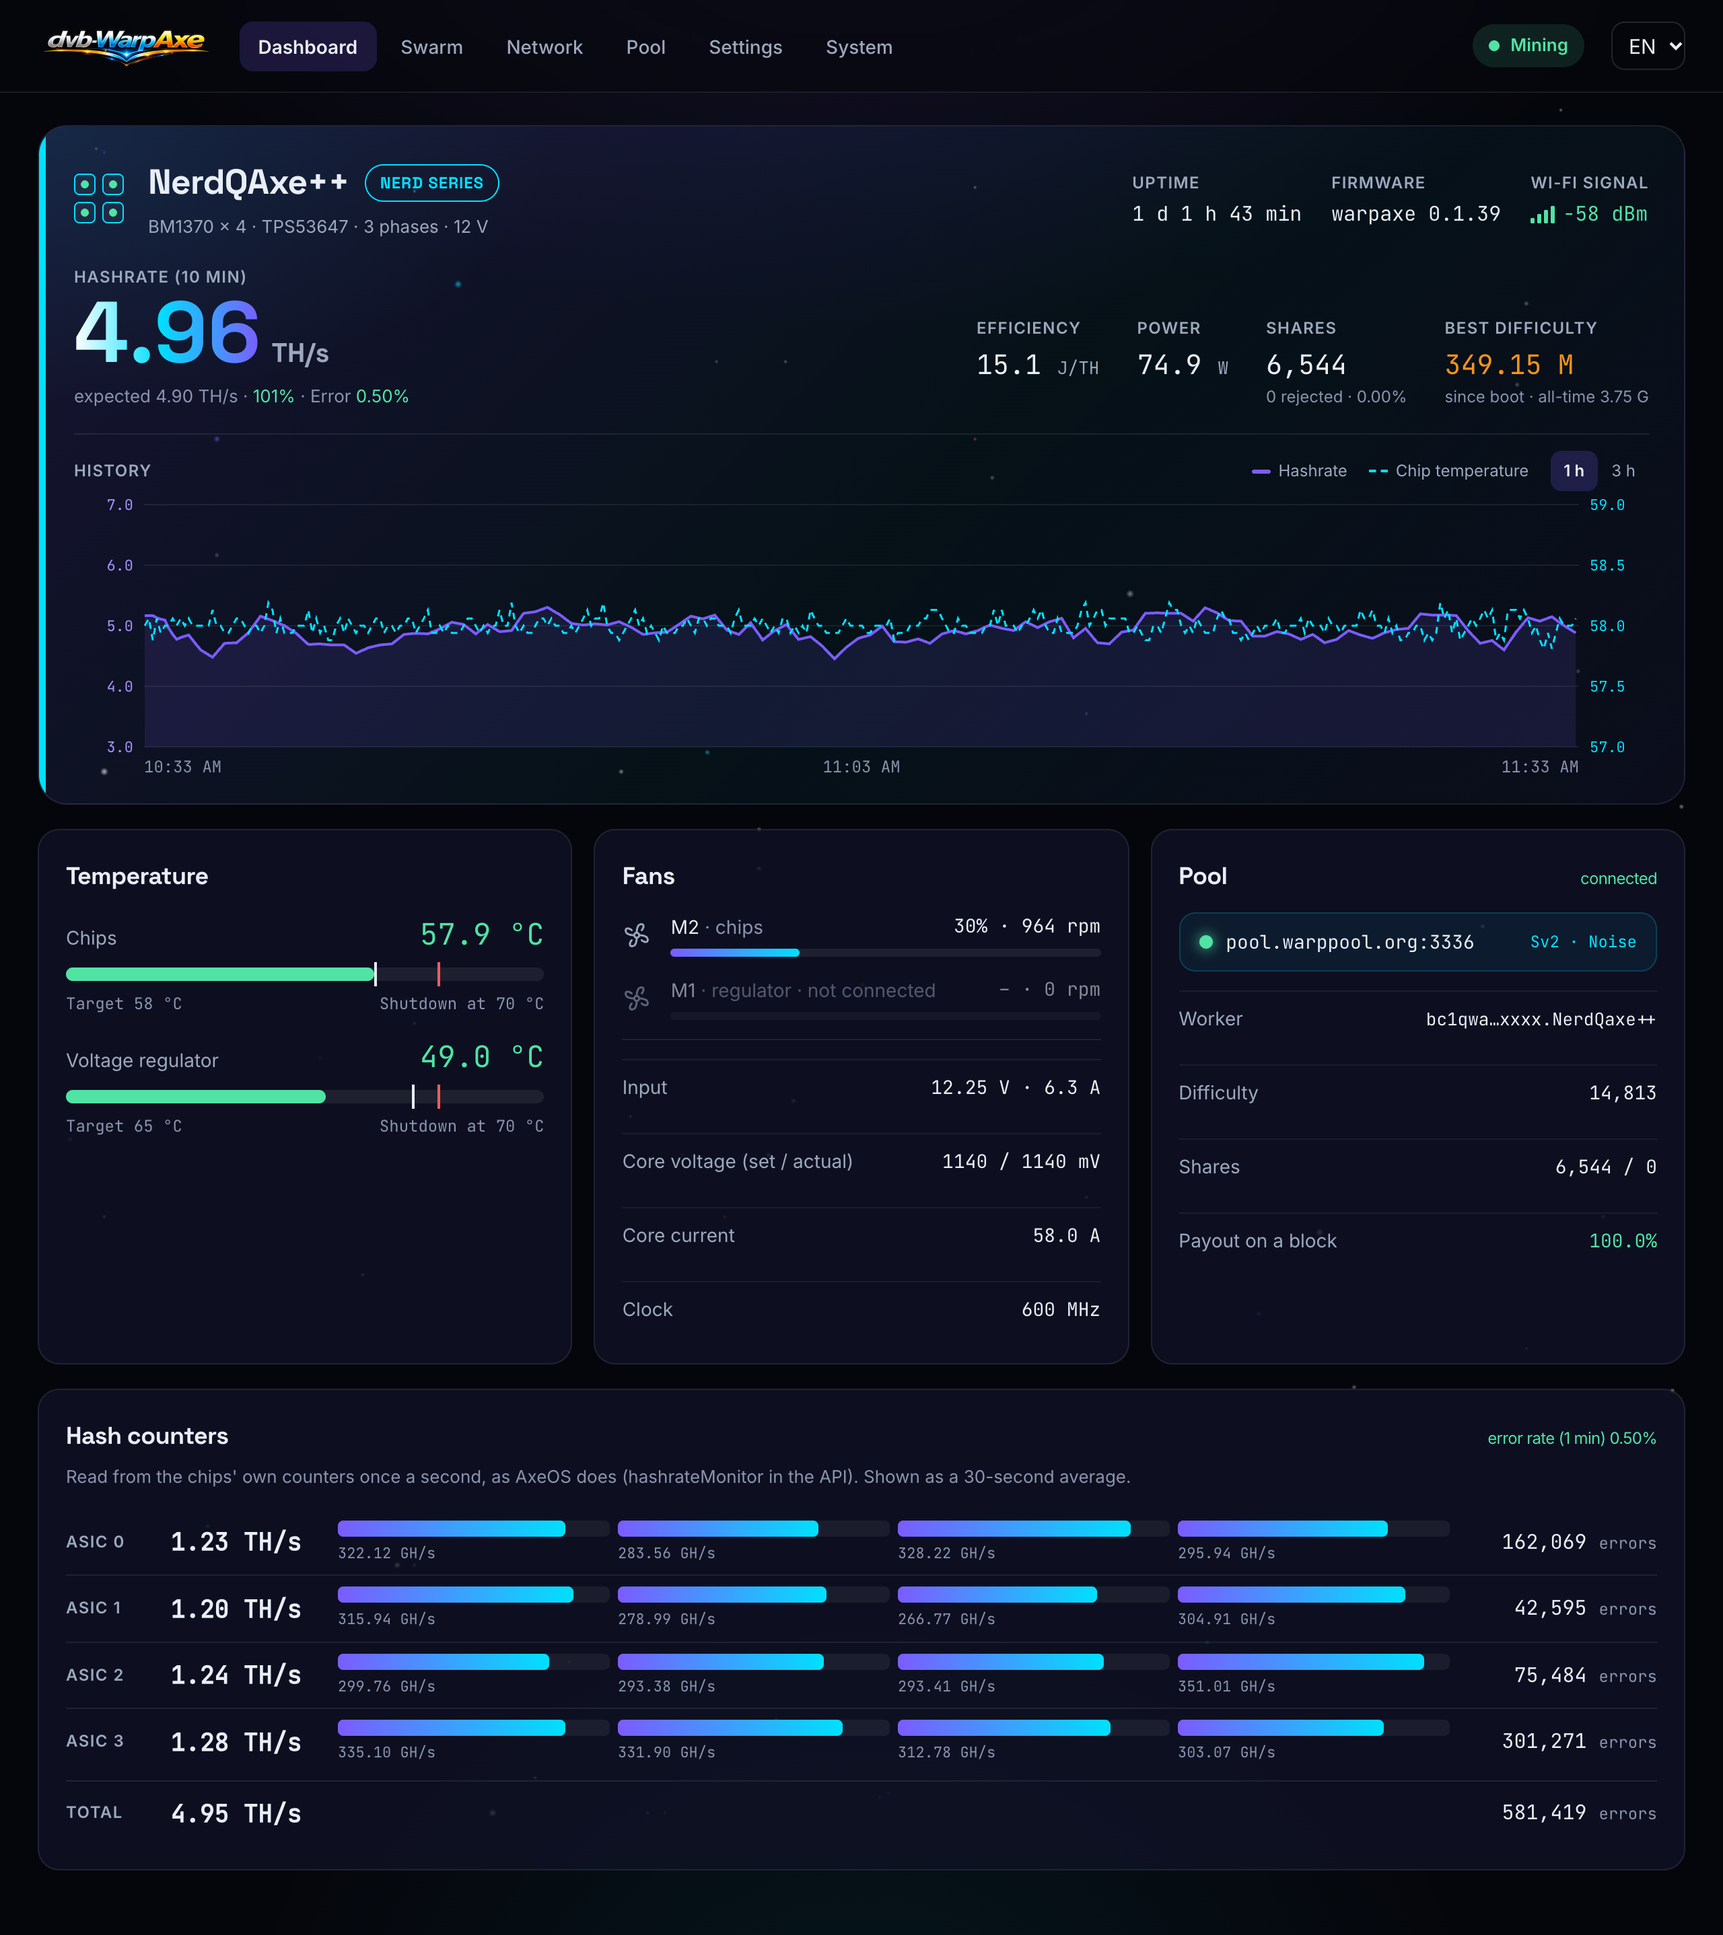
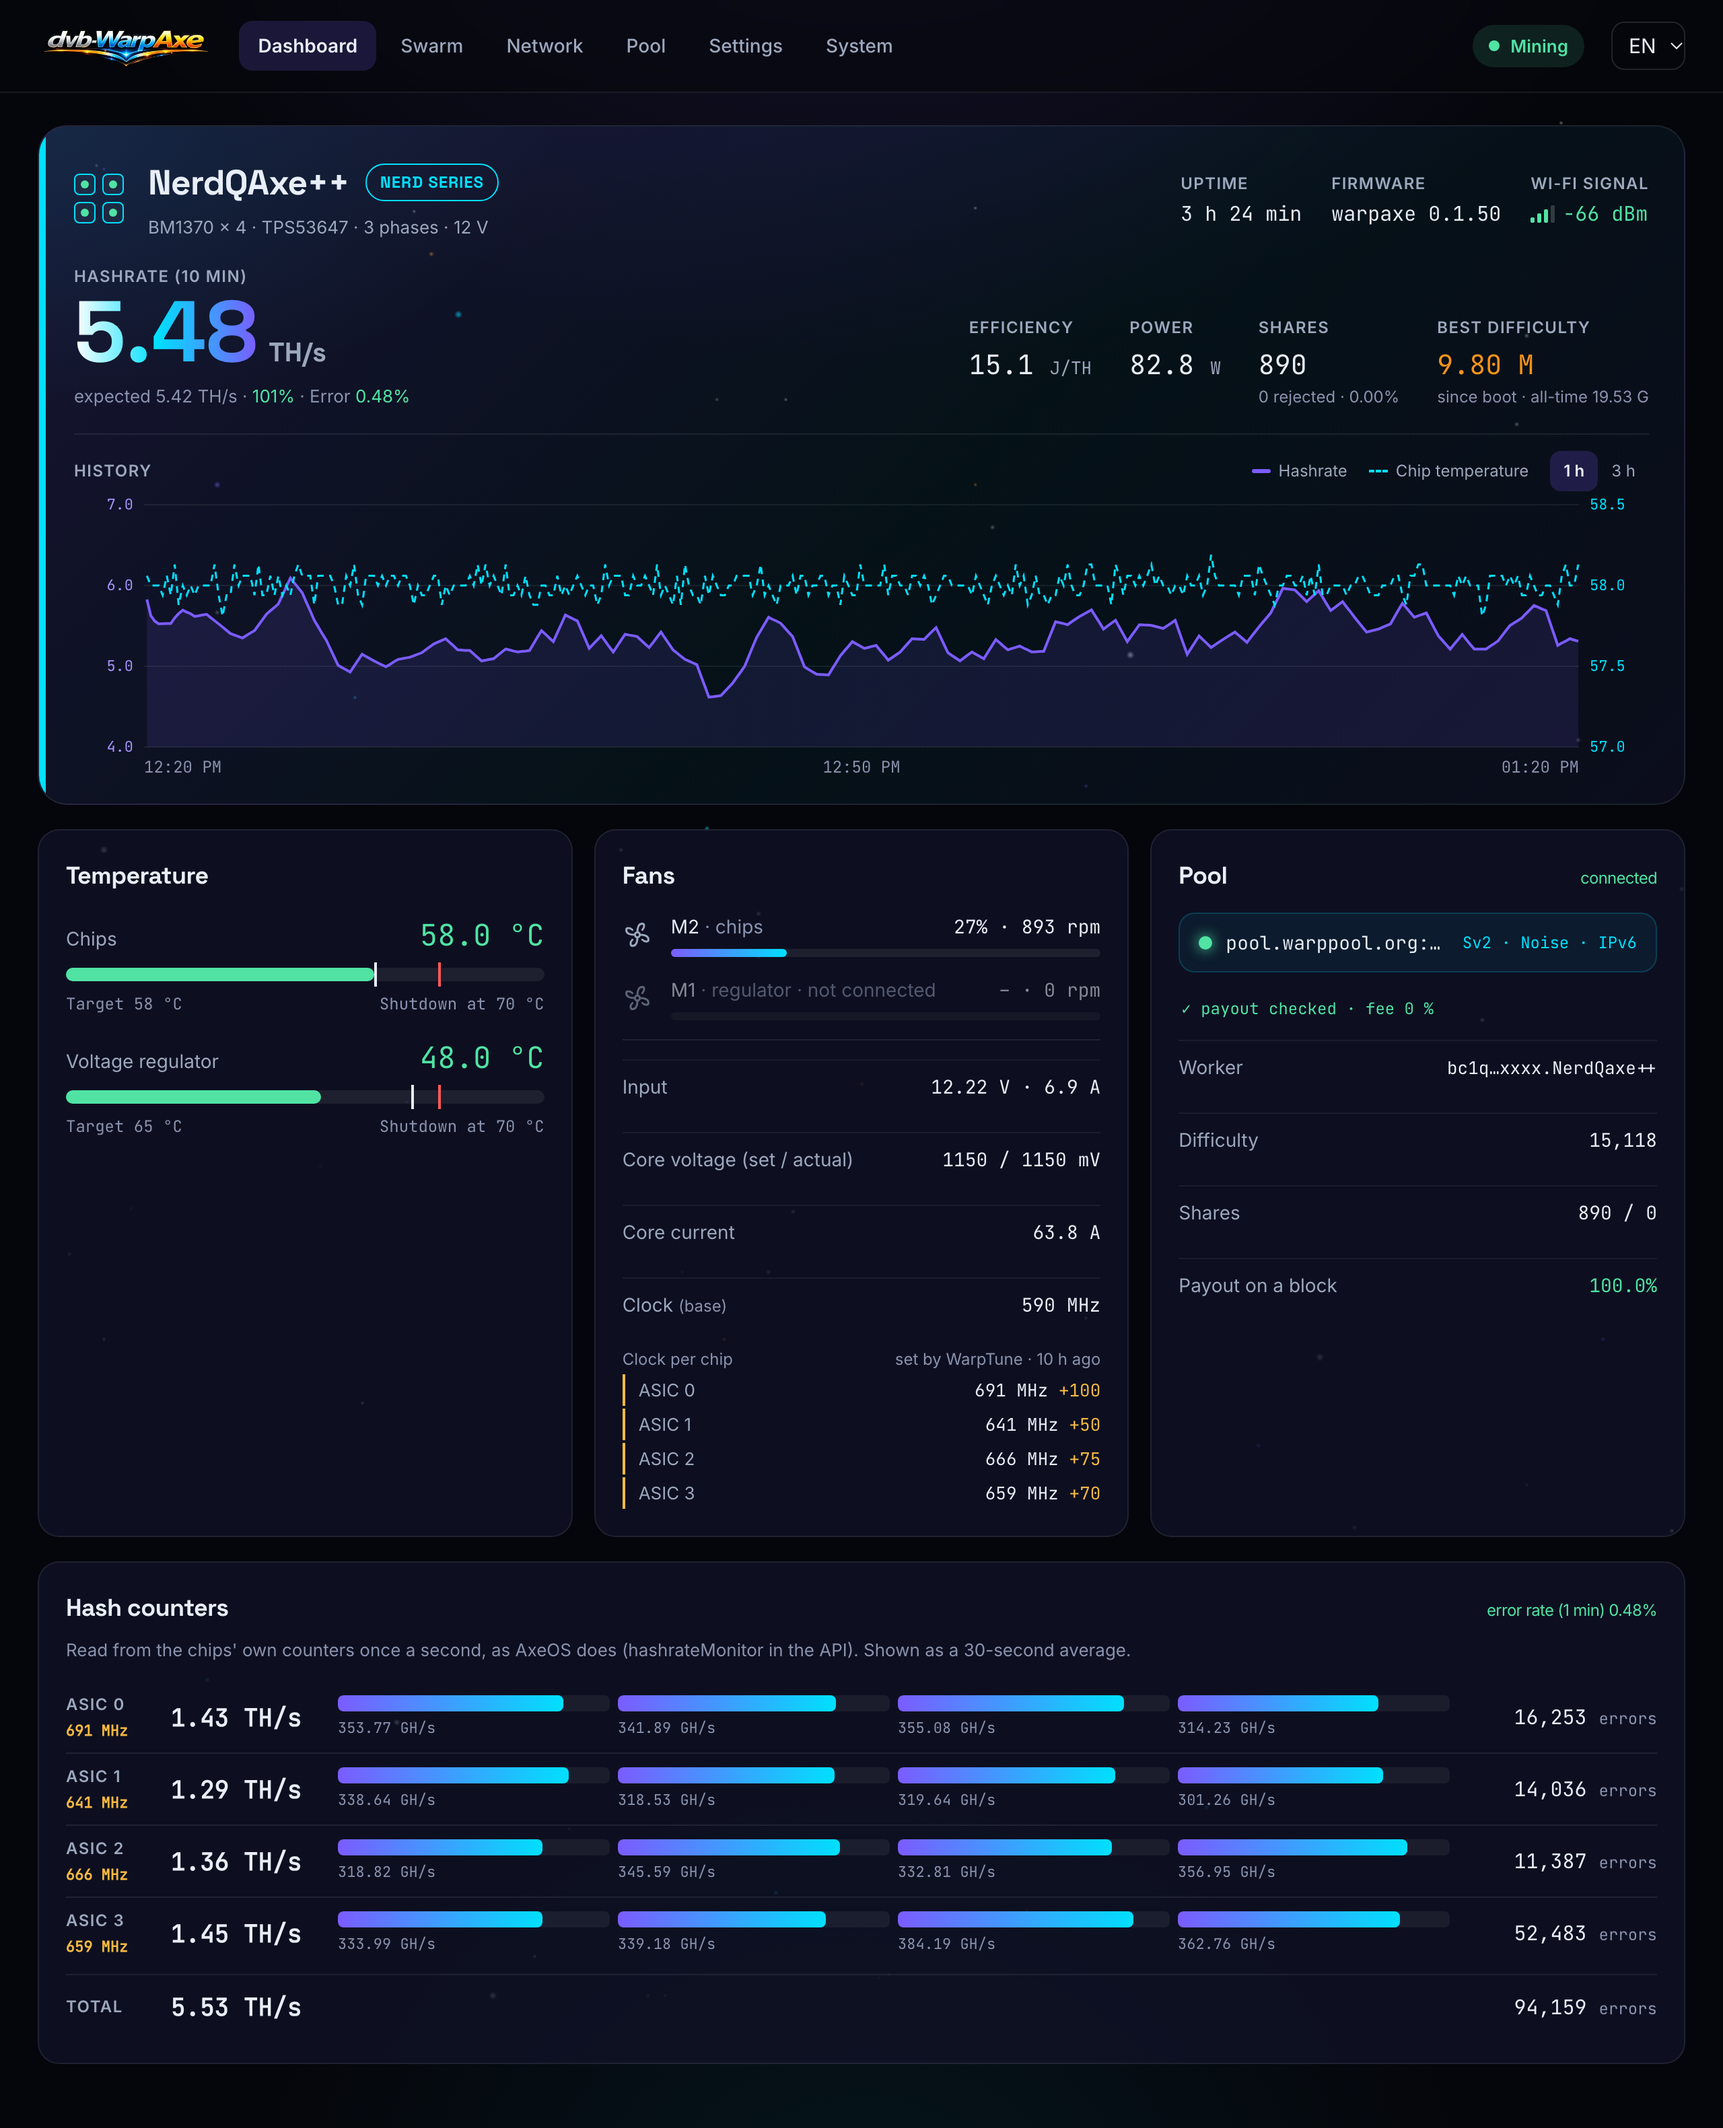
docs: README screenshots at v0.1.50
Web pages (dashboard, swarm, network with static IPv4, pool, settings,
system) taken from the v0.1.50 UI through a read-only proxy to a test
miner, with wallet, Wi-Fi name, MAC and LAN addresses masked; the LCD
pages, special screens and OLED slides rendered by tools/display-preview
(192.0.2.x). The old ones showed v0.1.34 to v0.1.39 and home-network
addresses.

diff --git a/README.md b/README.md
@@ -207,7 +207,7 @@ gets from AxeOS, NerdOS, ForgeOS and WarpAxe.
 
 <p align="center">
   <img src="docs/screenshots/web-network.png" alt="Network: Wi-Fi, hostname, time by NTP and time zone" width="760"><br>
-  <em>Network — Wi-Fi with a list of networks found, hostname, USB address, time by NTP and time zone, and whether and when the clock was last synchronised.</em>
+  <em>Network — Wi-Fi with a list of networks found, hostname, USB address, IPv6, an optional static IPv4 address (here switched on and in use, each field with the value in use now), time by NTP and time zone, and whether and when the clock was last synchronised.</em>
 </p>
 
 <p align="center">
